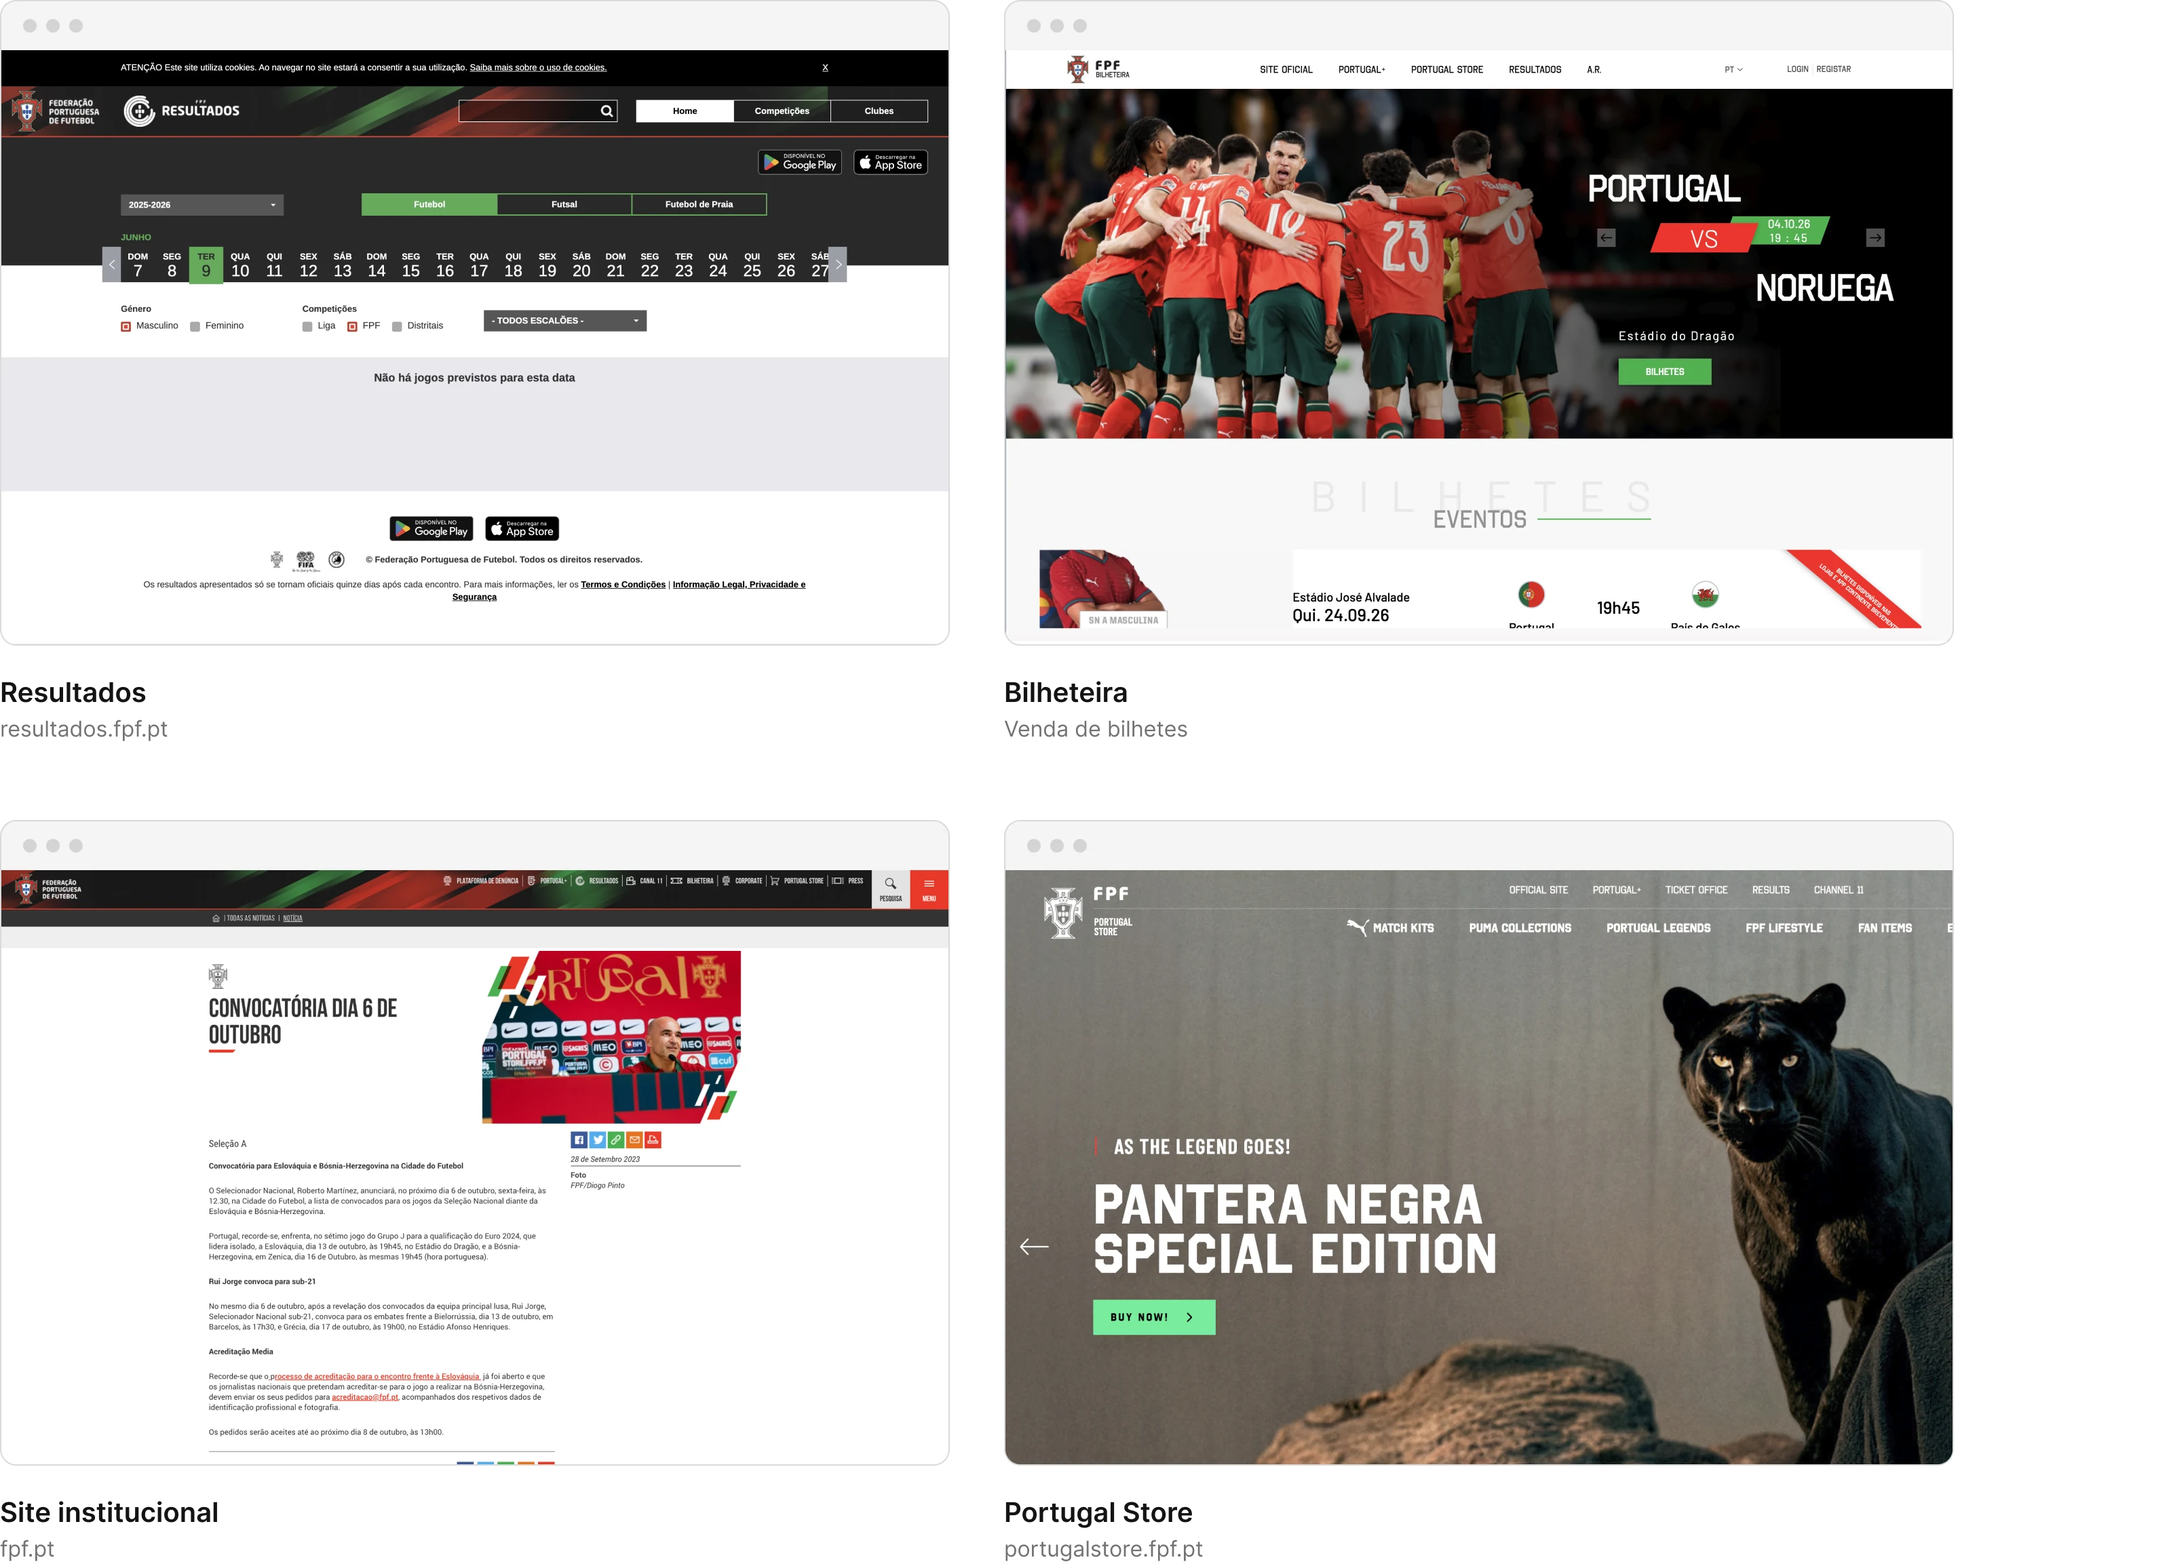
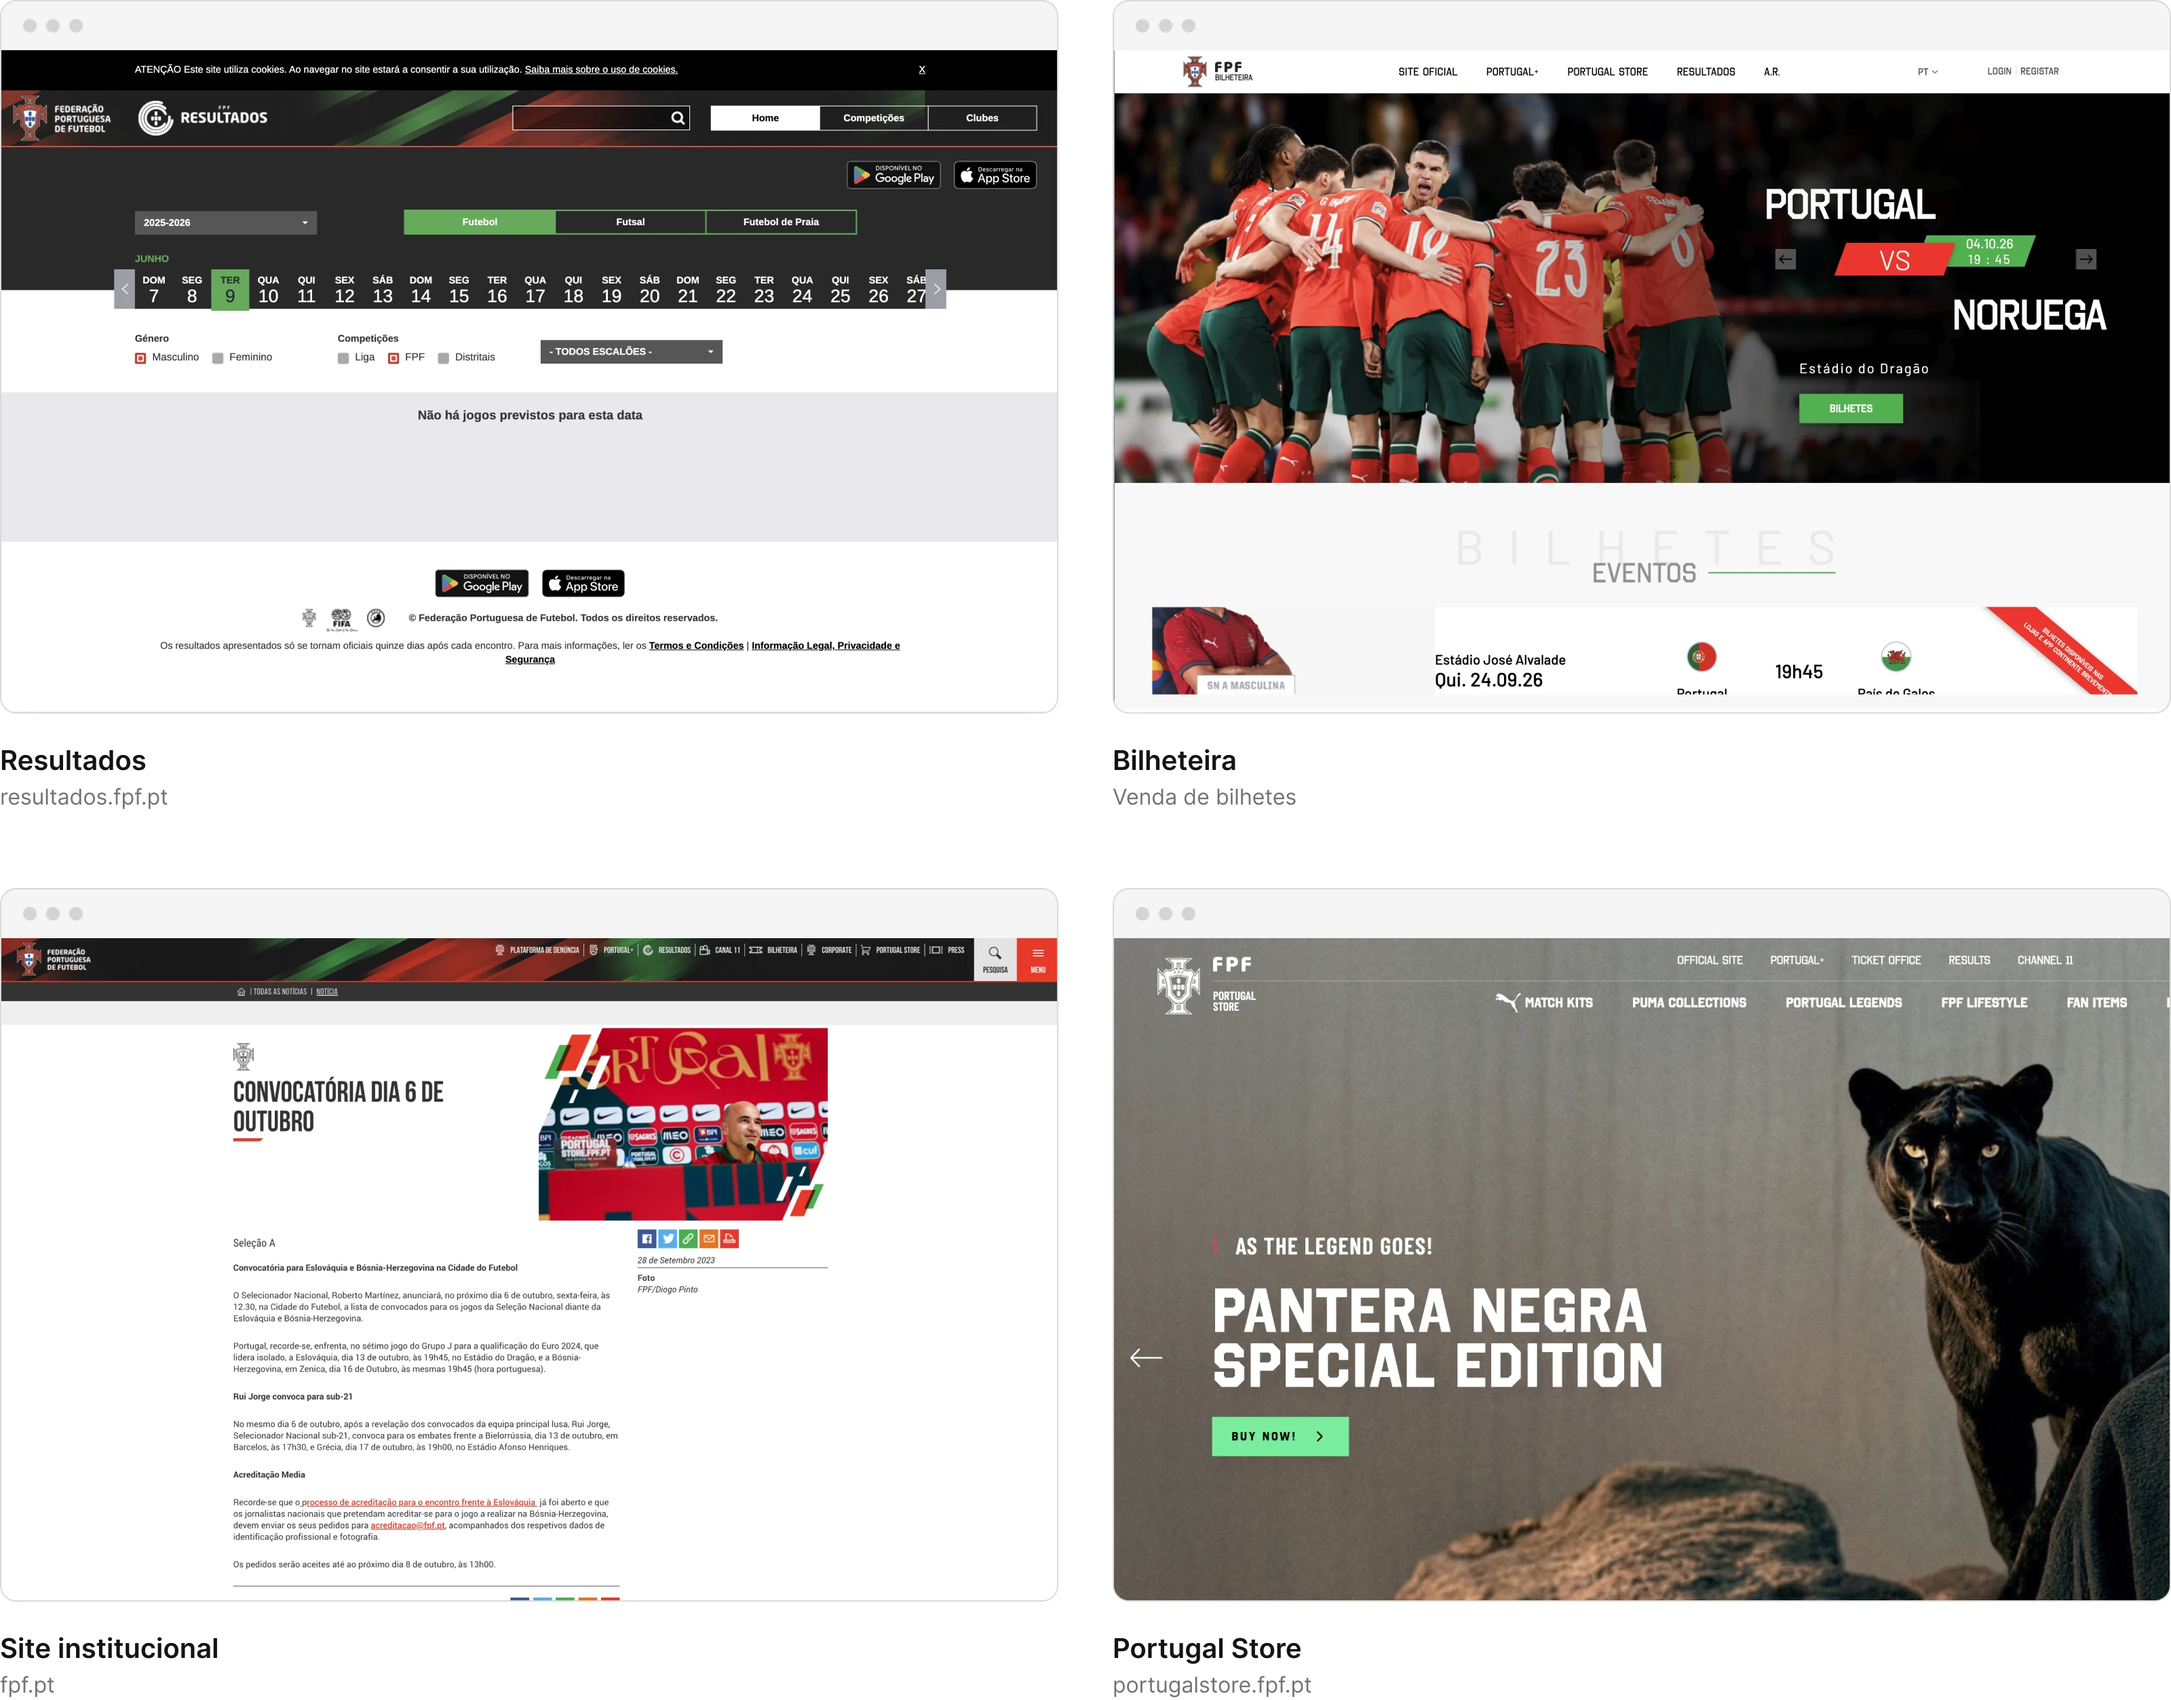
Case studies: informação centrada numa coluna de 720px e grelha com máximo de 1200px (depois só cresce a margem); visuais 01 e 07 a ocupar a largura toda
Claude-Session: https://claude.ai/code/session_0125m1rgYWwECSxchRXUAmcU

diff --git a/src/components/CaseStudy/style.module.scss b/src/components/CaseStudy/style.module.scss
@@ -7,18 +7,22 @@ $ease: cubic-bezier(0.76, 0, 0.24, 1);
 .page {
   background: var(--paper);
   color: $ink;
+  /* Grelha dos case studies: estica até 1200px; a partir daí só cresce a margem. */
+  --cs-max: 1200px;
+  --cs-pad: 40px;
+  --cs-text: 720px;
 }
 
 /* ---------- hero ---------- */
 .hero {
   background: $dark;
   color: #fff;
-  padding: 180px var(--page) 90px;
+  padding: 180px var(--cs-pad) 90px;
   display: flex;
   justify-content: center;
 }
 .heroInner {
-  max-width: 1400px;
+  max-width: var(--cs-max);
   width: 100%;
 }
 .back {
@@ -44,7 +48,7 @@ $ease: cubic-bezier(0.76, 0, 0.24, 1);
   line-height: 1.08;
   letter-spacing: -0.02em;
   margin: 0;
-  max-width: 1200px;
+  max-width: 1000px;
 }
 .mask {
   display: inline-flex;
@@ -81,22 +85,22 @@ $ease: cubic-bezier(0.76, 0, 0.24, 1);
 /* ---------- cover ---------- */
 .cover {
   background: linear-gradient($dark 50%, var(--paper) 50%);
-  padding: 0 var(--page);
+  padding: 0 var(--cs-pad);
   display: flex;
   justify-content: center;
 }
 .coverFrame {
   position: relative;
   width: 100%;
-  max-width: 1400px;
+  max-width: var(--cs-max);
   aspect-ratio: 16 / 9;
 }
 
 /* ---------- impact ---------- */
 .impact {
-  max-width: 1000px;
+  max-width: calc(var(--cs-text) + 2 * var(--cs-pad));
   margin: 140px auto 40px;
-  padding: 0 40px;
+  padding: 0 var(--cs-pad);
 }
 .sectionLabel {
   font-size: 12px;
@@ -114,25 +118,24 @@ $ease: cubic-bezier(0.76, 0, 0.24, 1);
 
 /* ---------- sections ---------- */
 .section {
-  padding: 0 var(--page);
+  padding: 0 var(--cs-pad);
   margin-top: 140px;
   display: flex;
   flex-direction: column;
   align-items: center;
 }
 .sectionGrid {
+  /* Informação centrada: título e texto numa só coluna ao centro da página. */
   width: 100%;
-  max-width: 1400px;
-  display: grid;
-  grid-template-columns: minmax(220px, 1fr) minmax(0, 680px);
-  gap: 60px;
+  max-width: var(--cs-text);
+  display: flex;
+  flex-direction: column;
+  gap: 32px;
   padding-top: 30px;
   border-top: 1px solid $line;
+  > div:empty { display: none; }
 }
 .sectionHead {
-  position: sticky;
-  top: 40px;
-  align-self: start;
   span {
     display: block;
     font-size: 13px;
@@ -213,7 +216,7 @@ $ease: cubic-bezier(0.76, 0, 0.24, 1);
 /* ---------- figures ---------- */
 .figure {
   width: 100%;
-  max-width: 1400px;
+  max-width: var(--cs-max);
   margin: 70px 0 0;
   figcaption {
     margin-top: 14px;
@@ -243,8 +246,9 @@ $ease: cubic-bezier(0.76, 0, 0.24, 1);
   background: $dark;
   color: #fff;
   margin-top: 200px;
-  padding: 120px var(--page) 40px;
+  padding: 120px var(--cs-pad) 40px;
   .sectionLabel { color: rgba(255, 255, 255, 0.5); }
+  > * { max-width: var(--cs-max); margin-left: auto; margin-right: auto; }
 }
 .nextLink {
   display: flex;
@@ -287,14 +291,14 @@ $ease: cubic-bezier(0.76, 0, 0.24, 1);
 
 /* ---------- phones ---------- */
 @media (max-width: 900px) {
+  .page { --cs-pad: 20px; }
   .hero { padding: 120px 20px 60px; }
   .back { margin-bottom: 40px; }
   .facts { margin-top: 50px; grid-template-columns: 1fr 1fr; gap: 24px; }
   .cover { padding: 0 20px; }
   .impact { margin-top: 80px; padding: 0 20px; }
   .section { padding: 0 20px; margin-top: 80px; }
-  .sectionGrid { grid-template-columns: 1fr; gap: 20px; }
-  .sectionHead { position: static; }
+  .sectionGrid { gap: 20px; }
   .sectionHead h2 { font-size: 30px; }
   .prose { font-size: 17px; }
   .figure { margin-top: 40px; }

diff --git a/content/01-design-system-fpf.md b/content/01-design-system-fpf.md
@@ -22,7 +22,7 @@ O desafio era criar um Design System capaz de unificar estas experiências, redu
 
 Enquanto UX/UI Designer, participei na investigação inicial e fui responsável pelo **desenho dos componentes, organização dos Design Tokens e documentação da biblioteca em Figma**. Participei também nas apresentações ao cliente e, após a entrega, continuei a trabalhar na evolução do sistema durante mais um ano.
 
-![Os quatro produtos prioritários antes do Design System: Resultados, Bilheteira, site institucional e Portugal Store.](images/fpf/01-contexto.webp?v=3)
+![Os quatro produtos prioritários antes do Design System: Resultados, Bilheteira, site institucional e Portugal Store.](images/fpf/01-contexto.webp?v=4)
 
 ## Compreender antes de construir
 
@@ -30,7 +30,7 @@ Antes de desenhar, precisávamos de confirmar a necessidade do sistema. A equipa
 
 A análise identificou **27 componentes e 1.313 variações**, revelando inconsistências entre elementos com a mesma função.
 
-![Excerto do inventário: botões e cards de resultados com a mesma função e tratamentos diferentes.](images/fpf/02-inventario.webp?v=3)
+![Excerto do inventário: botões e cards de resultados com a mesma função e tratamentos diferentes.](images/fpf/02-inventario.webp?v=4)
 
 Em vez de tentar abranger todo o ecossistema, definimos quatro plataformas prioritárias: Resultados, Bilheteira, site institucional e Portugal Store.
 
@@ -42,19 +42,19 @@ Com a investigação concluída, fui responsável por transformar os elementos i
 
 Comecei por estruturar os **Design Tokens**, centralizando cores, tipografia, espaçamentos e raios. Esta organização permitiu estabelecer referências partilhadas e simplificar futuras alterações.
 
-![As variáveis em duas coleções, Primitives e Tokens, com quatro modos. O mesmo token, Colour/Action/high, alimenta o botão e o toggle em modo claro e escuro.](images/fpf/03-tokens.webp?v=3)
+![As variáveis em duas coleções, Primitives e Tokens, com quatro modos. O mesmo token, Colour/Action/high, alimenta o botão e o toggle em modo claro e escuro.](images/fpf/03-tokens.webp?v=4)
 
 Os componentes foram organizados com variantes, propriedades e estados de interação. No caso dos botões, por exemplo, definimos cinco níveis de destaque: Primário, Secundário, Outlined, Ghost e Destrutivo.
 
-![O botão: cinco níveis de destaque nos estados Rest, Hover, Pressed e Focus, com as propriedades do componente e as medidas de construção.](images/fpf/04-botao.webp?v=3)
+![O botão: cinco níveis de destaque nos estados Rest, Hover, Pressed e Focus, com as propriedades do componente e as medidas de construção.](images/fpf/04-botao.webp?v=4)
 
 A acessibilidade também fez parte do processo, utilizando as WCAG 2.1 como referência. Um exemplo foi a definição de um estado de foco com a cor `#3366FF` e um contorno branco para melhorar a visibilidade em diferentes fundos.
 
-![O estado de foco num fundo claro e num fundo escuro. Nos dois fundos em que o azul não chega ao contraste mínimo, o contorno branco garante a visibilidade.](images/fpf/05-foco.webp?v=3)
+![O estado de foco num fundo claro e num fundo escuro. Nos dois fundos em que o azul não chega ao contraste mínimo, o contorno branco garante a visibilidade.](images/fpf/05-foco.webp?v=4)
 
 Para facilitar a utilização, organizámos a biblioteca num único ficheiro Figma, com documentação individual dos componentes, regras de utilização, Design Tokens e Changelog.
 
-![A estrutura de páginas do ficheiro e duas páginas reais da documentação do botão.](images/fpf/06-documentacao.webp?v=3)
+![A estrutura de páginas do ficheiro e duas páginas reais da documentação do botão.](images/fpf/06-documentacao.webp?v=4)
 
 ## Da biblioteca aos produtos reais
 
@@ -64,7 +64,7 @@ Dos quatro produtos iniciais, **dois alcançaram adoção completa**, o site ins
 
 Os novos projetos passaram a utilizar o Design System desde o início.
 
-![Componentes partilhados no site Resultados e no site institucional.](images/fpf/07-aplicacao.webp?v=3)
+![Componentes partilhados no site Resultados e no site institucional.](images/fpf/07-aplicacao.webp?v=4)
 
 Durante o ano seguinte, continuei a acompanhar a manutenção e evolução da biblioteca, respondendo a novas necessidades através de tickets, incluindo componentes de tabelas para a plataforma Score.
 
@@ -78,7 +78,7 @@ O projeto estabeleceu uma linguagem visual partilhada e uma base reutilizável p
 - 100% dos novos projetos a utilizar o Design System, segundo os resultados acompanhados.
 - 12 meses adicionais de manutenção e evolução.
 
-![Adoção ao fim dos seis meses, separando adoção completa de adoção parcial.](images/fpf/08-resultados.webp?v=3)
+![Adoção ao fim dos seis meses, separando adoção completa de adoção parcial.](images/fpf/08-resultados.webp?v=4)
 
 A maior aprendizagem foi perceber que **o sucesso de um Design System depende tanto da sua construção como da sua adoção**.
 
